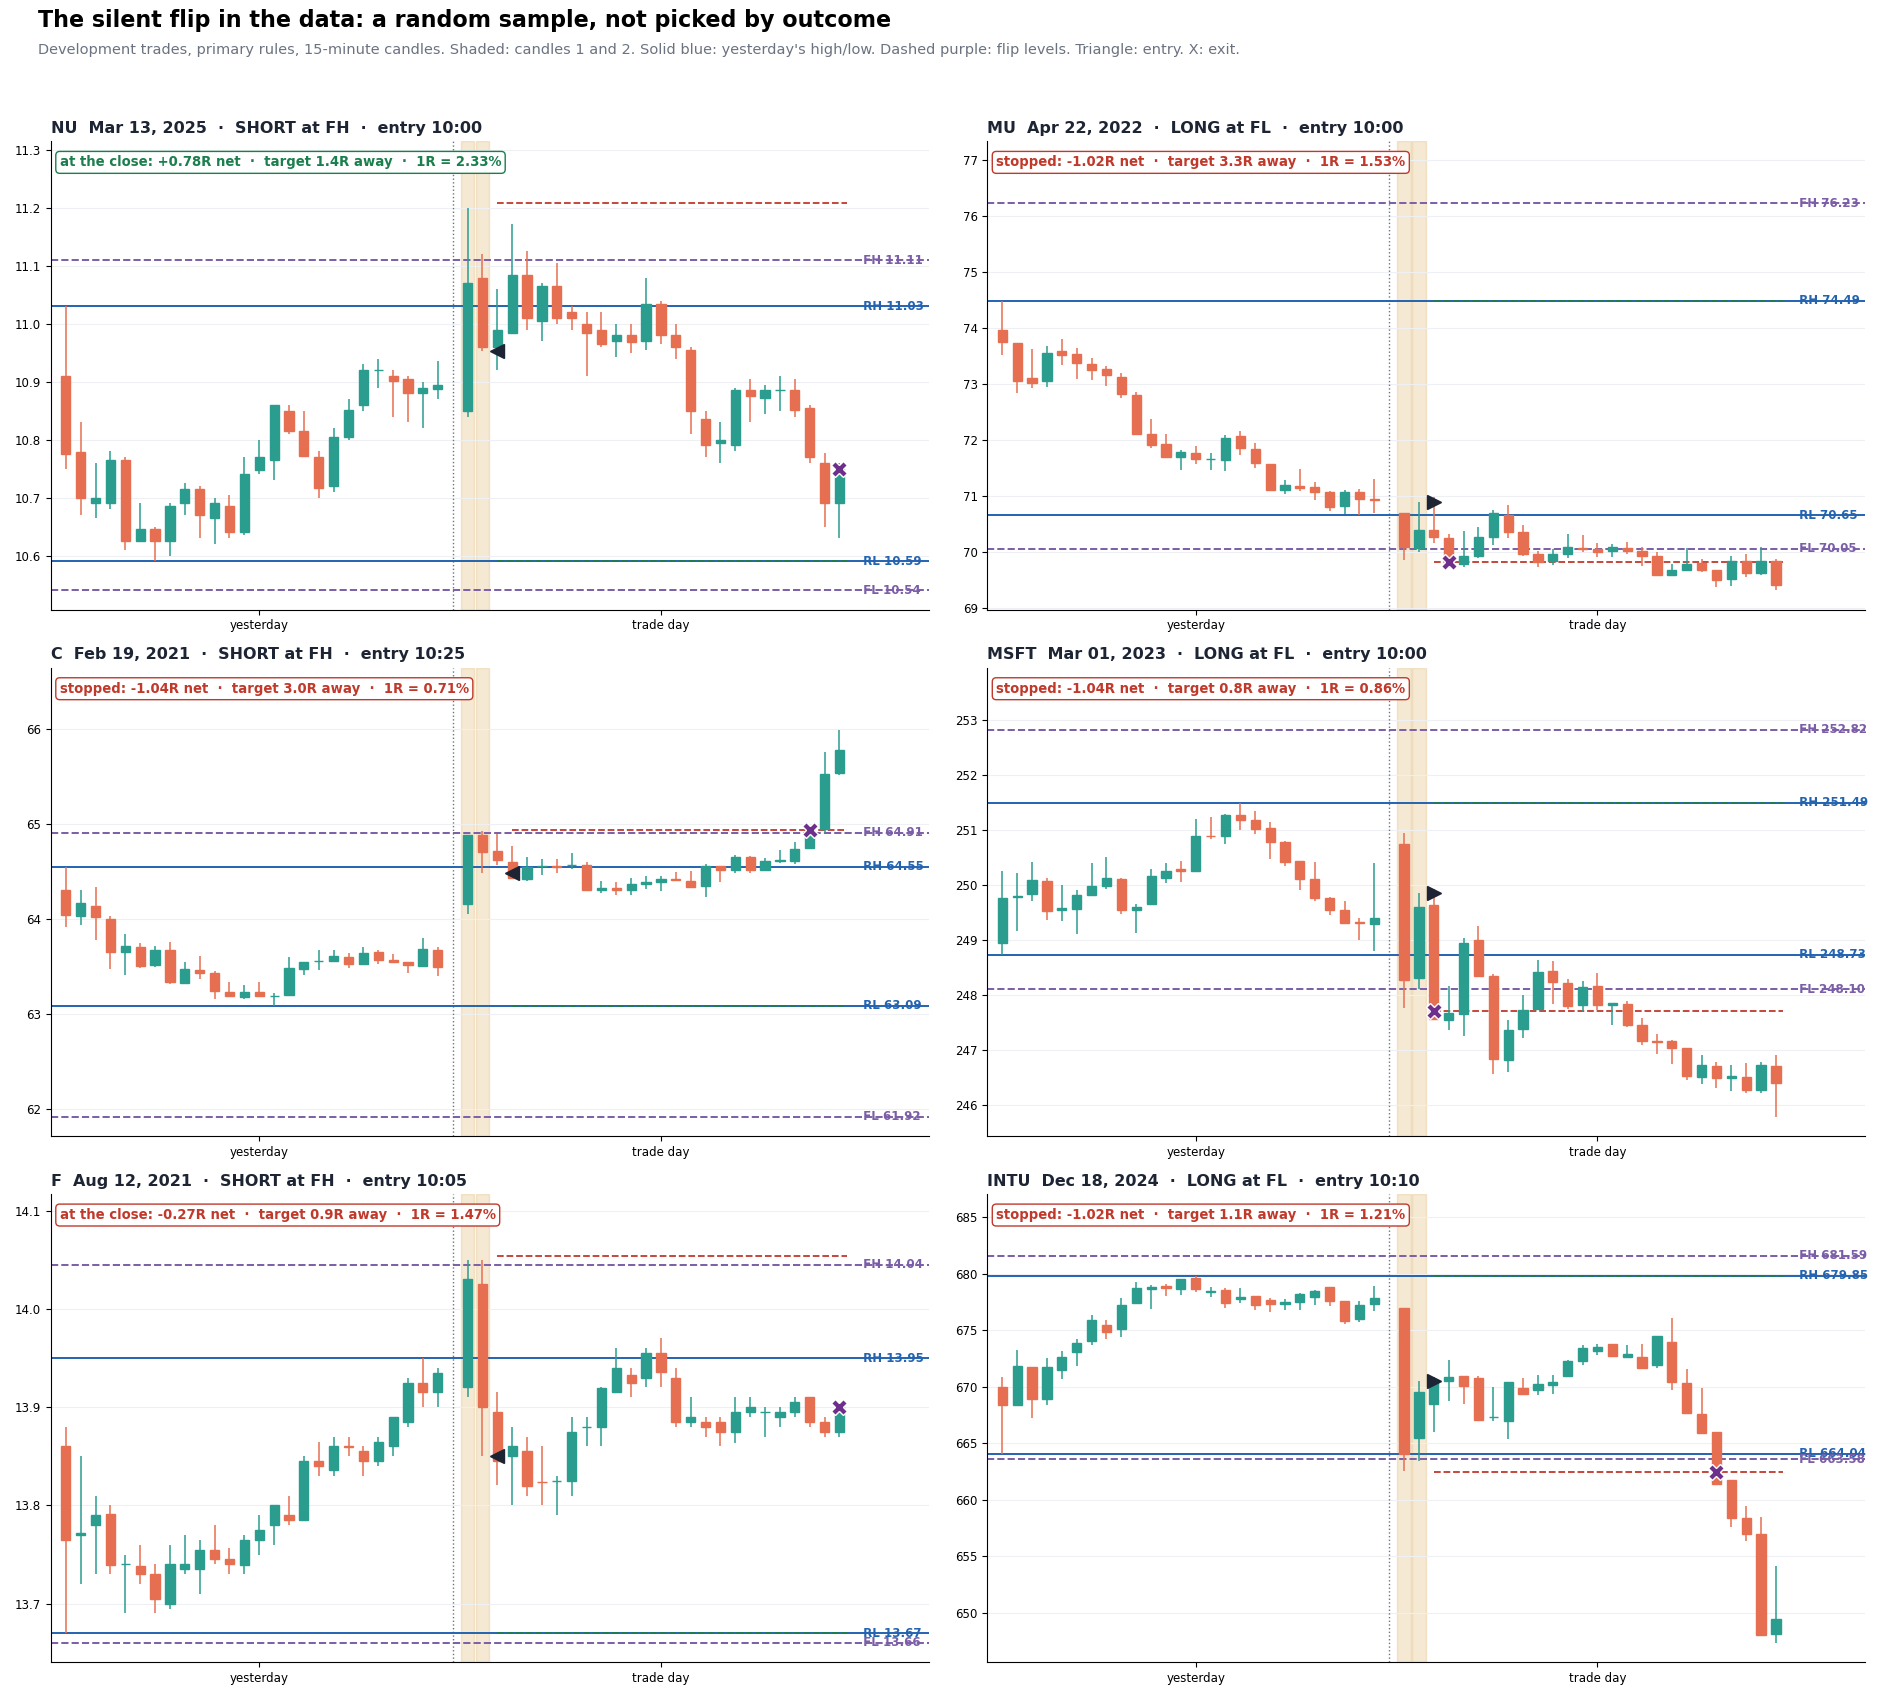
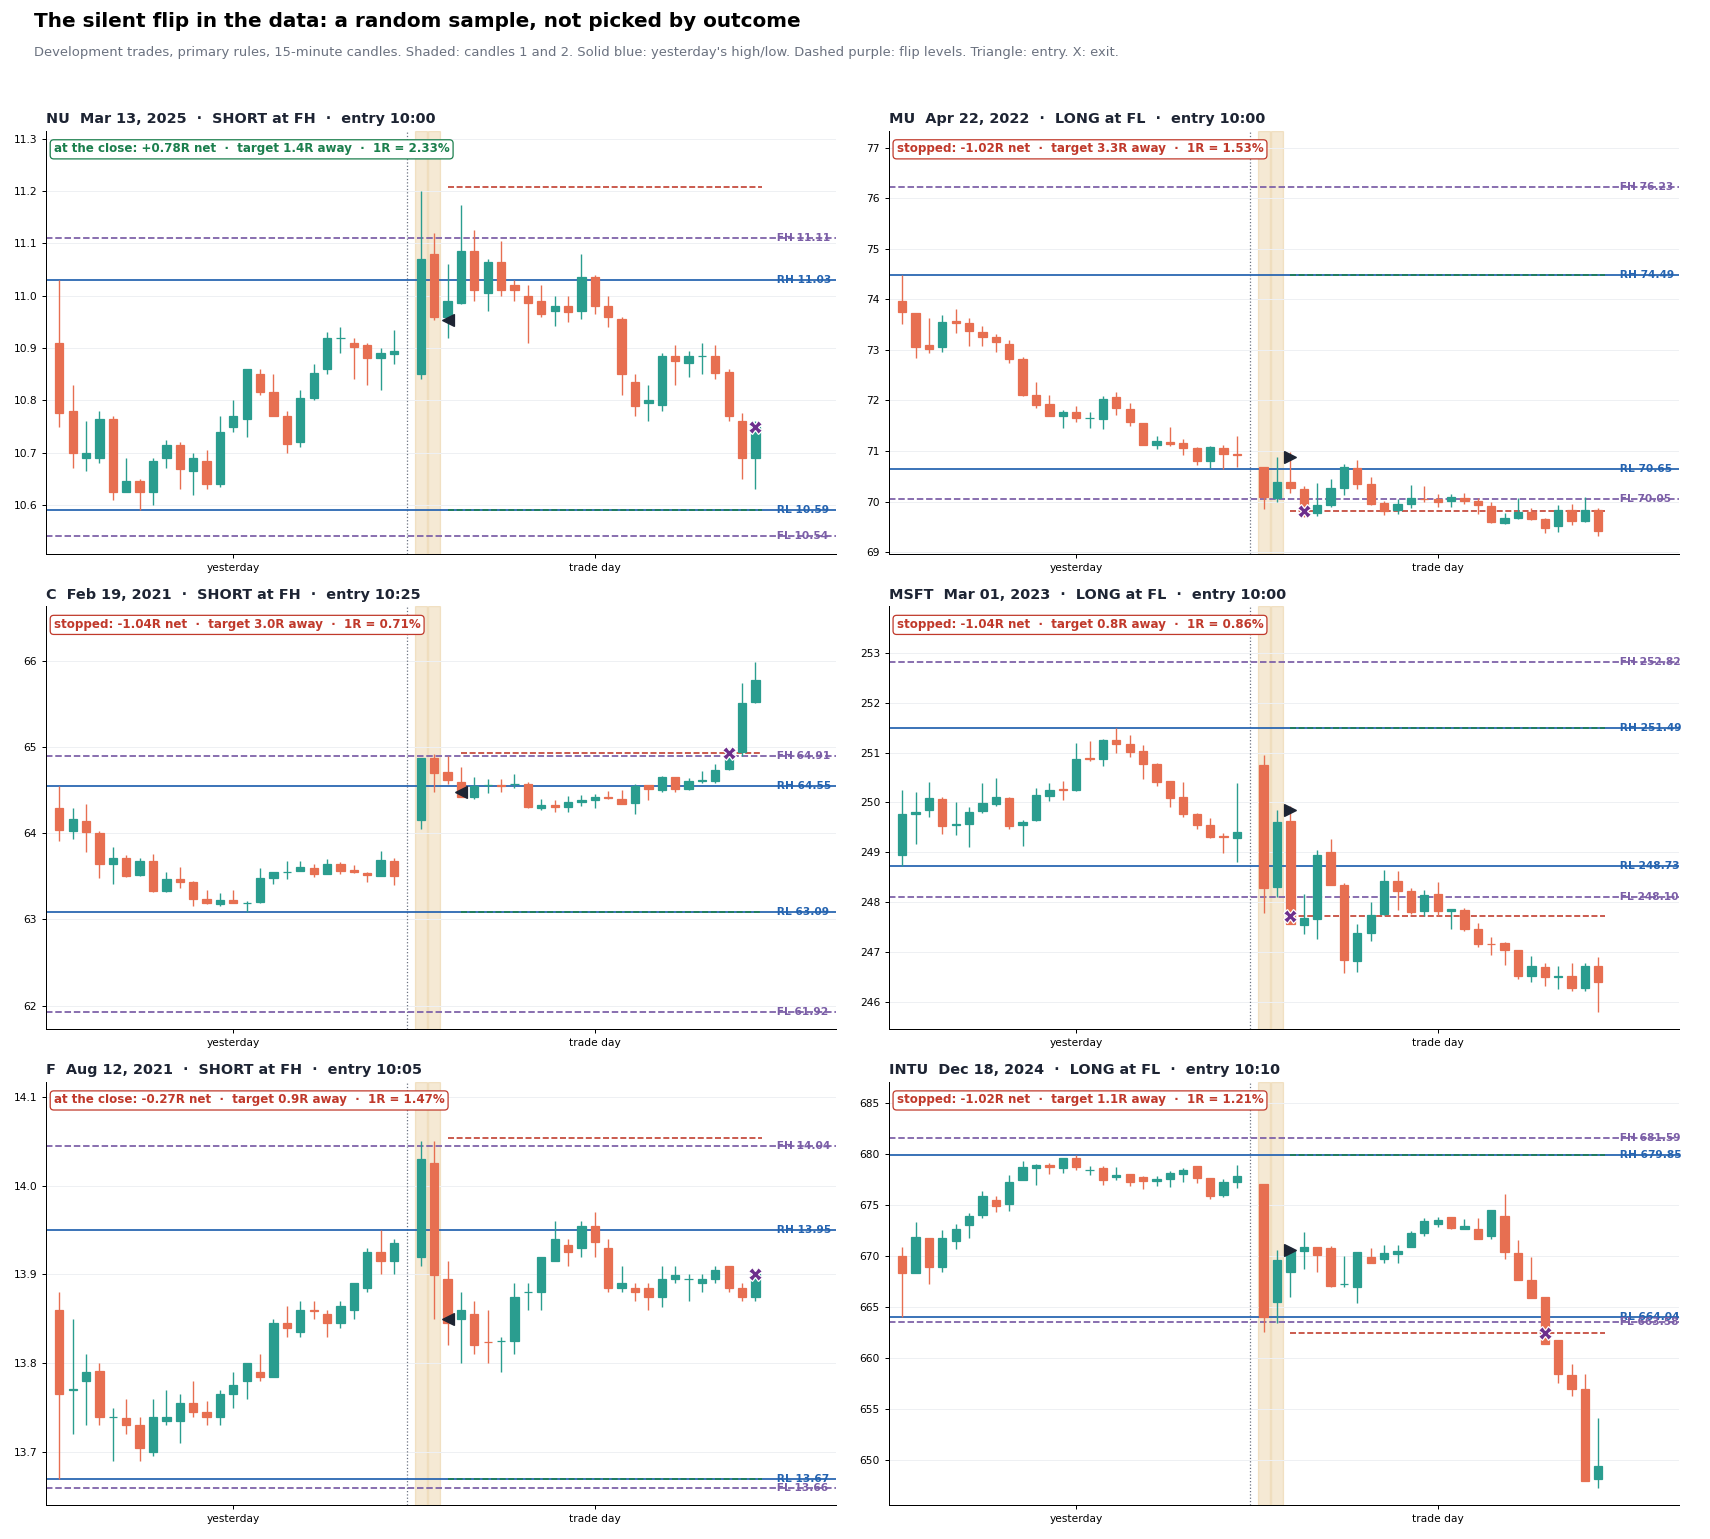
Silent flip figures: the setup as taught, random outcome-blind samples (v1, v2), and both versions against fake levels

diff --git a/flip/render.py b/flip/render.py
@@ -32,8 +32,11 @@ def candles(ax, O, H, L, C, x0=0, w=.62):
         ax.add_patch(Rectangle((x0 + i - w / 2, min(o, c)), w, max(abs(c - o), 1e-9), color=col, zorder=4))
 
 
-def level_line(ax, y, name, color, x1, ls="-"):
-    ax.axhline(y, color=color, lw=1.4, ls=ls, zorder=2)
+def level_line(ax, y, name, color, x1, ls="-", full=True):
+    if full:
+        ax.axhline(y, color=color, lw=1.4, ls=ls, zorder=2)
+    else:                                                   # stop at the label, leaving room for notes
+        ax.hlines(y, -1, x1, color=color, lw=1.4, ls=ls, zorder=2)
     ax.text(x1, y, f" {name} {y:.2f}", color=color, fontsize=8.5, va="center", ha="left", fontweight="bold")
 
 
@@ -45,7 +48,7 @@ def tidy(ax):
 
 # ---------- 1. the setup as taught ----------
 def schematic():
-    fig, axes = plt.subplots(1, 2, figsize=(16, 6.6))
+    fig, axes = plt.subplots(1, 2, figsize=(18, 6.6))
     yday = [(100.2, 100.9, 99.8, 100.6), (100.6, 101.5, 100.4, 101.3), (101.3, 102.0, 101.0, 101.4),
             (101.4, 101.6, 100.7, 100.9), (100.9, 101.2, 100.2, 100.4), (100.4, 100.8, 99.6, 99.9),
             (99.9, 100.4, 99.5, 100.2), (100.2, 100.7, 100.0, 100.5)]
@@ -61,36 +64,39 @@ def schematic():
         x0 = len(yd) + 1
         candles(ax, O2, H2, L2, C2, x0)
         ax.axvline(x0 - 1, color=MUTE, lw=1, ls=":")
-        ax.text(x0 - 1.2, 103.3 if short else 96.7, "09:30", ha="right", fontsize=8, color=MUTE)
+        ax.text(x0 - 1.2, .97 if short else .03, "09:30", transform=ax.get_xaxis_transform(), ha="right",
+                va="top" if short else "bottom", fontsize=8, color=MUTE)
         RH, RL = H.max(), L.min()
         FH, FL = (102.8, 99.0) if short else (101.0, 97.2)
         xr = x0 + len(td) + .3
-        level_line(ax, RH, "range high", LEVEL, xr); level_line(ax, RL, "range low", LEVEL, xr)
-        level_line(ax, FH, "flip high", FLIP, xr, "--"); level_line(ax, FL, "flip low", FLIP, xr, "--")
-        for k, lab in ((0, "1  strong\nopening candle"), (1, "2  silent\ncandle")):
+        level_line(ax, RH, "range high", LEVEL, xr, full=False); level_line(ax, RL, "range low", LEVEL, xr, full=False)
+        level_line(ax, FH, "flip high", FLIP, xr, "--", False); level_line(ax, FL, "flip low", FLIP, xr, "--", False)
+        for k in (0, 1):
             ax.axvspan(x0 + k - .45, x0 + k + .45, color=SETUP, alpha=.16, zorder=0)
-            y = (H2[k] + .35) if short else (L2[k] - .35)
-            ax.text(x0 + k, y, lab, ha="center", va="bottom" if short else "top", fontsize=8.5, color=SETUP, fontweight="bold")
         trig = L2[1] if short else H2[1]
         stop = (max(H2[0], H2[1]) + .1) if short else (min(L2[0], L2[1]) - .1)
         tgt = RL if short else RH
-        ax.hlines(trig, x0 + 1.5, x0 + len(td) - .3, color=INK, lw=1.5)
-        ax.hlines(stop, x0 + 1.5, x0 + len(td) - .3, color=LOSS, lw=1.3, ls="--")
-        ax.annotate("", xy=(x0 + 2.2, tgt), xytext=(x0 + 2.2, trig), arrowprops=dict(arrowstyle="->", color=WIN, lw=1.6))
-        ax.text(x0 + 1.55, trig, ("sell-stop at candle 2's low" if short else "buy-stop at candle 2's high"),
-                ha="right", va="center", fontsize=8.5, color=INK)
-        ax.text(x0 + 1.55, stop, "stop beyond both highs" if short else "stop beyond both lows",
-                ha="right", va="center", fontsize=8.5, color=LOSS)
-        ax.text(x0 + 2.4, (trig + tgt) / 2, "target: the other\nside of yesterday", fontsize=8.5, color=WIN, va="center")
-        ax.set_xticks([3.5, x0 + 2.5]); ax.set_xticklabels(["yesterday (15-min)", "today, first 90 minutes"], fontsize=9)
-        ax.set_xlim(-1, x0 + len(td) + 3.2)
+        xe = x0 + len(td) - .3
+        ax.hlines(trig, x0 + 1.5, xe, color=INK, lw=1.5)
+        ax.hlines(stop, x0 - .5, xe, color=LOSS, lw=1.3, ls="--")
+        ax.annotate("", xy=(xe - .4, tgt), xytext=(xe - .4, trig), arrowprops=dict(arrowstyle="->", color=WIN, lw=1.6))
+        xn = xe + 6.2                                       # notes column, right of the level labels
+        ax.text(xn, trig, "entry: stop order at\ncandle 2's " + ("low" if short else "high"), va="center", fontsize=8.5, color=INK)
+        ax.text(xn, stop, "stop: beyond both\ncandles' " + ("highs" if short else "lows"), va="center", fontsize=8.5, color=LOSS)
+        ax.text(xn, (trig + tgt) / 2, "target: the other\nside of yesterday", va="center", fontsize=8.5, color=WIN)
+        ax.set_xticks([3.5, x0, x0 + 1, x0 + 3.5])
+        ax.set_xticklabels(["yesterday (15-min)", "1", "2", "today, first 90 minutes"], fontsize=9)
+        for t in ax.get_xticklabels()[1:3]:
+            t.set_color(SETUP); t.set_fontweight("bold")
+        ax.set_xlim(-1, x0 + len(td) + 10.5)
         ax.set_title(("SHORT: a strong green candle runs into the flip high" if short
                       else "LONG: a strong red candle runs into the range low"), fontsize=12, fontweight="bold",
                      color=INK, loc="left")
         tidy(ax)
     fig.suptitle("The silent flip, as taught", fontsize=16, fontweight="bold", x=.02, ha="left", y=.99)
-    fig.text(.02, .925, "Drawn, not real data. Levels: yesterday's high and low, and the most recent earlier swing beyond each. "
-             "Enter only if price breaks candle 2 in the first hour.", fontsize=10.5, color=MUTE)
+    fig.text(.02, .925, "Drawn, not real data. Shaded: candle 1, the strong opening candle, and candle 2, the 'silent' candle "
+             "against it. Levels: yesterday's high and low, and the most recent earlier swing beyond each.",
+             fontsize=10.5, color=MUTE)
     fig.tight_layout(rect=(0, 0, 1, .91))
     fig.savefig(f"{OUT}/schematic.png", dpi=110); plt.close(fig)
 
@@ -105,12 +111,14 @@ def exit_bar(o, h, l, c, j, side, stop, tgt):
     return len(c) - 1
 
 
-def sample_real():
-    T = pd.read_parquet("cache/flip_dev.parquet")
-    R = T[spec_mask(T, sim.PRIMARY) & (T.kind == "real")]
-    pick = pd.concat([R[R.side < 0].sample(3, random_state=4), R[R.side > 0].sample(3, random_state=4)])
+def sample_real(version=1, n=3, seed=4):
+    """Random, outcome-blind sheet: n shorts and n longs from the primary spec."""
+    spec, within = (sim.PRIMARY, False) if version == 1 else (sim.PRIMARY_V2, True)
+    T = pd.read_parquet("cache/flip_dev.parquet" if version == 1 else "cache/flip_v2_dev.parquet")
+    R = T[spec_mask(T, spec) & (T.kind == "real")]
+    pick = pd.concat([R[R.side < 0].sample(n, random_state=seed), R[R.side > 0].sample(n, random_state=seed)])
     files = sorted(glob.glob("cache/mp5min/*.parquet"))
-    fig, axes = plt.subplots(3, 2, figsize=(19, 17))
+    fig, axes = plt.subplots(n, 2, figsize=(19, 5.7 * n))
     for ax, tr in zip(axes.T.ravel(), pick.itertuples()):
         k = files.index(next(f for f in files if DAY(f) == tr.date))
         hist = []
@@ -120,8 +128,8 @@ def sample_real():
                 hist.append(sim.name_day(*s, [], None)[1])
         o, h, l, c, hh = sessions(files[k], {tr.symbol})[tr.symbol]
         O, H, L, C, starts = sim.bars15(o, h, l, c, hh)
-        RH, RL, FH, FL = sim.levels_from(hist)
-        p = sim.pattern(O, H, L, C, tr.atr, RH, RL, FH, FL, sim.PRIMARY)
+        RH, RL, FH, FL = sim.levels_from(hist, within)
+        p = sim.pattern(O, H, L, C, tr.atr, RH, RL, FH, FL, spec)
         ex = sim.execute(o, h, l, c, hh, p)
         # yesterday's and today's 15-minute candles
         prev = [f for f in files[max(0, k - 5):k] if tr.symbol in sessions(f, {tr.symbol})][-1]
@@ -162,25 +170,29 @@ def sample_real():
         ax.set_xticks([len(PO) / 2, x0 + len(O) / 2]); ax.set_xticklabels(["yesterday", "trade day"], fontsize=9)
         ax.set_xlim(-1, x0 + len(O) + 5)
         tidy(ax)
-    fig.suptitle("The silent flip in the data: a random sample, not picked by outcome", fontsize=16,
-                 fontweight="bold", x=.02, ha="left", y=.995)
-    fig.text(.02, .968, "Development trades, primary rules, 15-minute candles. Shaded: candles 1 and 2. Solid blue: yesterday's high/low. "
-             "Dashed purple: flip levels. Triangle: entry. X: exit.", fontsize=10.5, color=MUTE)
-    fig.tight_layout(rect=(0, 0, 1, .96))
-    fig.savefig(f"{OUT}/sample_real.png", dpi=100); plt.close(fig)
+    u = 3 / n                                               # header heights scale with the figure
+    ty = 1 - 0.008 * u; cy = ty - 0.022 * u; top = cy - 0.012 * u
+    fig.suptitle(f"The silent flip{' v2' if version == 2 else ''} in the data: a random sample, not picked by outcome",
+                 fontsize=16, fontweight="bold", x=.02, ha="left", y=ty, va="top")
+    fig.text(.02, cy, "Development trades, primary rules, 15-minute candles. Shaded: candles 1 and 2. "
+             "Solid blue: yesterday's high/low. Dashed purple: flip levels. Triangle: entry. X: exit.",
+             fontsize=10.5, color=MUTE, va="top")
+    fig.tight_layout(rect=(0, 0, 1, top))
+    fig.savefig(f"{OUT}/{'sample_real' if version == 1 else f'sample_v2_seed{seed}'}.png", dpi=90); plt.close(fig)
 
 
 # ---------- 3. the result ----------
 def result():
-    T = pd.read_parquet("cache/flip_dev.parquet")
-    P = T[spec_mask(T, sim.PRIMARY)]
-    real, fake = P[P.kind == "real"], P[P.kind == "fake"]
-    rows = [("Real levels (877 trades)", *clustered(net(real), real.date)[:2]),
-            ("Fake levels from another day (915)", *clustered(net(fake), fake.date)[:2]),
-            ("Random entry, same trades (877)", *clustered(net(real, "R_rand", "c_rand"), real.date)[:2])]
-    for lv in ("RH", "FH", "RL", "FL"):
-        x = real[real.level == lv]
-        rows.append((f"  real, at {lv} ({len(x)})", *clustered(net(x), x.date)[:2]))
+    rows = []
+    for v, f, sp in ((1, "cache/flip_dev.parquet", sim.PRIMARY), (2, "cache/flip_v2_dev.parquet", sim.PRIMARY_V2)):
+        T = pd.read_parquet(f)
+        P = T[spec_mask(T, sp)]
+        real, fake = P[P.kind == "real"], P[P.kind == "fake"]
+        rows.append((f"v{v}: real levels ({len(real):,})", *clustered(net(real), real.date)[:2]))
+        rows.append((f"  v{v}: fake levels ({len(fake):,})", *clustered(net(fake), fake.date)[:2]))
+        if v == 2:      # v1's random-entry control had a look-ahead (v2 Amendment 2); only v2's is shown
+            rows.append((f"  v2: random entry, same trades", *clustered(net(real, "R_rand", "c_rand"), real.date)[:2]))
+            rows.append((f"  v2: his trailing stop", *clustered(real.R_trail_his - 3 * real.cost, real.date)[:2]))
     fig, ax = plt.subplots(figsize=(10, 5.2))
     ys = np.arange(len(rows))[::-1]
     for y, (lab, m, se) in zip(ys, rows):
@@ -191,12 +203,14 @@ def result():
     ax.axvline(0, color=INK, lw=1)
     ax.set_yticks(ys); ax.set_yticklabels([r[0] for r in rows], fontsize=10)
     ax.set_xlabel("net R per trade after a 3 bp cost (dot = mean, bar = 95% interval)", fontsize=9.5, color=MUTE)
-    ax.set_title("The silent flip loses, and fake levels do just as well", fontsize=13, fontweight="bold",
-                 color=INK, loc="left")
+    ax.set_title("Neither version makes money, and fake levels do as well", fontsize=13, fontweight="bold",
+                 color=INK, loc="left", pad=14)
+    ax.set_ylim(ys.min() - .6, ys.max() + .7)
     for k in ("top", "right", "left"):
         ax.spines[k].set_visible(False)
     ax.xaxis.grid(True, color=GRID); ax.tick_params(axis="y", length=0)
-    fig.text(.01, .01, "Development 2021-01 to 2025-03, top 100 US stocks a day. +1R = winning what you risked.",
+    fig.text(.01, .01, "Development 2021-01 to 2025-03, top 100 US stocks a day. v2 = rules rebuilt from his 3 Sept 2026 trade. "
+             "+1R = winning what you risked.",
              fontsize=8.5, color=MUTE)
     fig.tight_layout(rect=(0, .03, 1, 1))
     fig.savefig(f"{OUT}/result.png", dpi=120); plt.close(fig)
@@ -205,5 +219,10 @@ def result():
 if __name__ == "__main__":
     import os
     os.makedirs(OUT, exist_ok=True)
-    schematic(); result(); sample_real()
-    print("wrote", ", ".join(f"{OUT}/{n}" for n in ("schematic.png", "result.png", "sample_real.png")))
+    import sys
+    if len(sys.argv) > 1 and sys.argv[1] == "v2":       # python3 flip/render.py v2 [seed]
+        seed = int(sys.argv[2]) if len(sys.argv) > 2 else 4
+        sample_real(2, n=5, seed=seed); print(f"wrote {OUT}/sample_v2_seed{seed}.png")
+    else:
+        schematic(); result(); sample_real()
+        print("wrote", ", ".join(f"{OUT}/{n}" for n in ("schematic.png", "result.png", "sample_real.png")))
